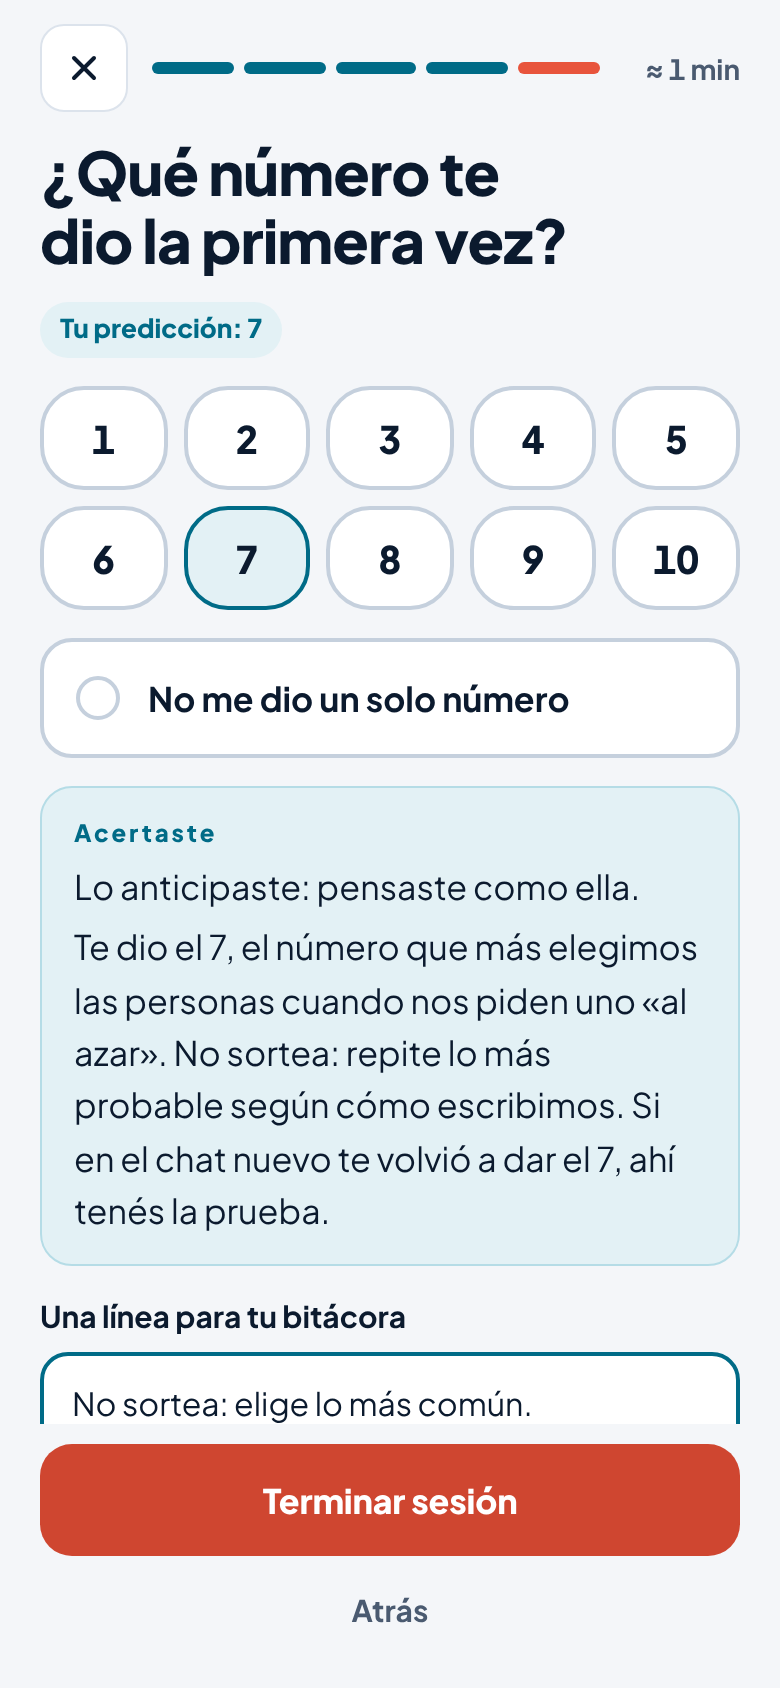
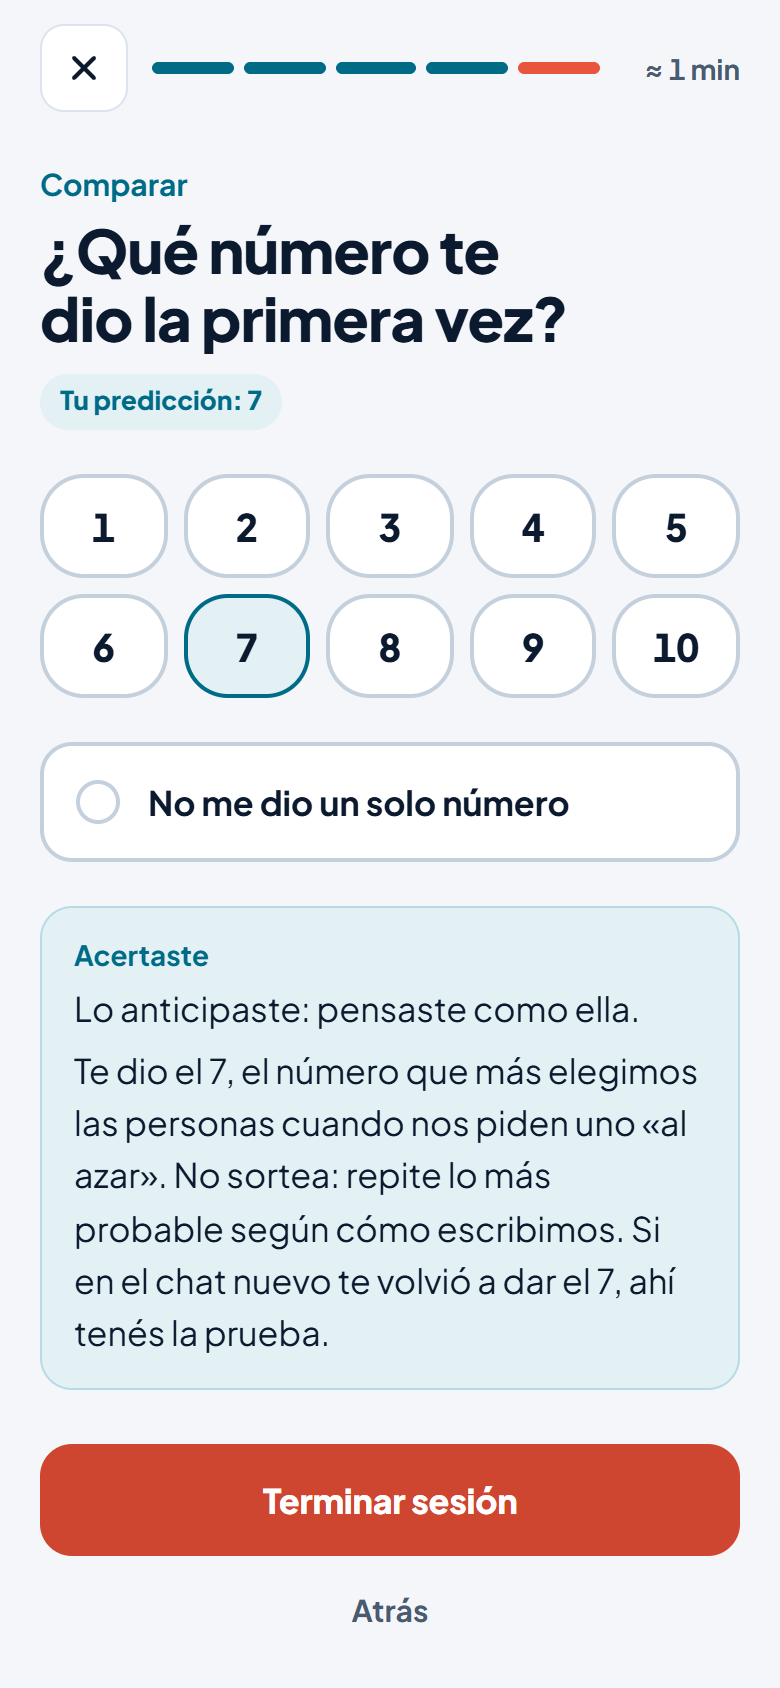
feat: página de venta y docs para la tipografía «Editorial» (v0.4.3, D33)
- Etiqueta del entrenamiento: «Entrenamiento de 6 semanas» (sin « · »),
  en la página de venta y en la tarjeta destacada del inicio.
- Capturas 01 y 04 a 07 rehechas con la app v0.4.3, mismas pantallas y
  tamaño (390×844 a 2x).
- ADR-030: enmienda v0.4.3 con las reglas tipográficas.
- docs/ventas: decisión D33 y bitácora 44.

Changed region(s): [[0.0308, 0.0924, 0.9538, 0.8626], [0.9231, 0.7393, 0.9538, 0.7701], [0.8923, 0.0308, 0.9231, 0.0616]]

diff --git a/tests/e2e/entrenamientos.spec.ts b/tests/e2e/entrenamientos.spec.ts
@@ -13,7 +13,7 @@ const SAMPLE = '/app/conversar-con-ia/muestra.html';
 test('entrenamiento: fase A, muestra gratis y lista de espera, sin compra', async ({ page }) => {
   await page.goto(PAGE);
   await expect(page.getByRole('heading', { level: 1 })).toHaveText(/Conversar con IA\s*sin creerle todo/);
-  await expect(page.getByText('Entrenamiento · 6 semanas', { exact: true })).toBeVisible();
+  await expect(page.getByText('Entrenamiento de 6 semanas', { exact: true })).toBeVisible();
 
   const tryIt = page.getByRole('link', { name: /Probá gratis el día 0/ });
   await expect(tryIt).toHaveCount(3);

diff --git a/docs/ventas/README.md b/docs/ventas/README.md
@@ -108,6 +108,7 @@ De la IA:
 | D6 | 2026-11-06 | Los Links de Pago que ya existen en Mercado Pago no se usan en el circuito. Se desactivan, salvo que se estén usando para ventas manuales. Verificado: hay 3 activos ("Evaluar / Aprender / Educar con IA - Ebook"). Sus URLs **no** se escriben en el repo | ✅ (acción de Fab en la guía, 2.7) |
 | D7 | 2026-11-06 | El webhook se configura en el panel de MP por entorno (URL de prueba → staging, URL productiva → producción), así los avisos llegan firmados. `notification_url` por preferencia solo si INT-08 prueba que también llega firmado | ✅ Técnica |
 | D8 | 2026-11-06 | Versión mínima de PHP: 8.1 (CI prueba 8.1 y 8.3). Se revisa al confirmar Q1 | ✅ Técnica |
+| D33 | 2026-11-26 | **Tipografía «Editorial» en la app** (decisión del dev, opción B). Para que la app no parezca hecha por una IA: sin « · » en los textos de pantalla; la etiqueta sobre el título, en minúscula, sin espaciado entre letras y pegada al título; rótulos sin espaciado entre letras; ritmo vertical por grupos; avisos con una línea celeste al costado. App v0.4.3. En la página de venta, la etiqueta pasa a «Entrenamiento de 6 semanas» y se rehicieron las capturas 01 y 04 a 07. El resto del sitio no cambia | ✅ Decisión del dev |
 | D32 | 2026-11-20 | **Logo de FENIA en la app** (decisión del dev, opción B). Arriba a la izquierda, donde decía el texto «FENIA.», va el logo en su versión para fondo oscuro: letras blancas, puntos celestes y el punto naranja. Se descartó la placa blanca del menú del sitio, porque en la app competía con el título y parecía un botón. App v0.4.2; la captura 01 de la página de venta se rehízo | ✅ Decisión del dev |
 | D31 | 2026-11-20 | **UX en el celular y quién hace las apps** (decisiones del dev).
   - Las apps se editan en este entorno, que es donde se decide. El entorno de producto aporta material y decisiones estéticas y recibe un resumen de cada cambio (ADR-030).
@@ -235,6 +236,15 @@ eformateo`;
 
 ## Bitácora
 
+- **2026-11-26 (44)** — **Tipografía «Editorial» en la app (D33), v0.4.3.**
+  - Diagnóstico del dev: la app «se nota hecha por una IA». Se compararon tres versiones sobre la app real (la de hoy, A «como el sitio» y B «editorial»). El dev eligió la B después de verla en staging.
+  - En la muestra, el piloto y el programa cambiaron los estilos de la etiqueta, los rótulos, los avisos, los datos del inicio y el ritmo vertical. Las etiquetas y los textos de pantalla ya no usan « · ». La clave de guardado no cambió. Huellas recalculadas.
+  - Página de venta: la etiqueta dice «Entrenamiento de 6 semanas» y las capturas 01 y 04 a 07 se rehicieron con la v0.4.3. Se actualizaron las fotos de referencia afectadas.
+  - Pruebas en local con la CSP real y en staging:
+    - semana completa simulada: 25 de 25, con 0 violaciones de CSP;
+    - aviso dentro de Instagram: 15 de 15;
+    - logo: 36 de 36.
+  - El resumen para el entorno de producto está en `conversar-con-ia-v0.4.3/RESUMEN-PARA-PRODUCTO.md` (local).
 - **2026-11-20 (43)** — **PR #33 en producción** con el OK del dev (logo de FENIA en la app, v0.4.2, D32). Deploy y purga de la CDN.
   - Contra producción:
     - logo: 36 de 36 controles;

diff --git a/docs/adr/ADR-030-trainings-and-self-contained-apps.md b/docs/adr/ADR-030-trainings-and-self-contained-apps.md
@@ -74,6 +74,8 @@ The manifest uses `display: browser`, not full screen, on purpose. On iPhone a f
 
 **Amendment 2026-11-20 (v0.4.2, dev's decision): the FENIA logo in the app's headers.** The text wordmark «FENIA.» is replaced by the real logo, in a version for dark backgrounds: the letters in white, the cyan dots of the circuit «F» and the coral dot over the «i» keep their colour. It is made from `public/images/main-logo.png` (glow dropped), 30 px high, and it goes inside the page as a 2 KB `data:` image, so the app depends on no other file. The site's nav keeps the logo on a white plate; in the app a plate competed with the title and looked like a button. The local folder for each version is `conversar-con-ia-v<version>/`.
 
+**Amendment 2026-11-26 (v0.4.3, dev's decision, option B «Editorial»): typography that does not read as machine-made.** The dev found the app looked made by an AI. The tells were: the « · » separator in every label; the same cyan, letter-spaced, all-caps eyebrow over every title; letter-spaced lowercase labels; and one 14 px gap between everything. The rules now are: the eyebrow is one plain line in the accent colour, in sentence case, 6 px above its title, saying one thing («Entrenamiento de 6 semanas», «Probar», «Hoy te toca la sesión 2»); labels and section titles carry no letter spacing; visible text uses commas, «y» or «;» instead of « · »; the vertical rhythm goes by groups (`.contenido > * + *` at 22 px, tighter inside a group); notices are a cyan rule at the side with a bold run-in, not a tinted box. The step number left the eyebrow: the progress bar shows it and announces «Paso N de 5» to screen readers. The sales page pill and captures 01 and 04 to 07 follow. The rest of the site keeps its own style (uppercase pill badges); only the training pill lost the « · ».
+
 **Updating an app (procedure).**
 1. Change the HTML in `public/app/<name>/` and the local `programa.html`.
 2. Run `node scripts/update-app-csp.mjs <name> <local programa.html>`. It writes each file's policy in the folder's `.htaccess` and the hashes in `scripts/app-csp-hashes/<name>.json`.
